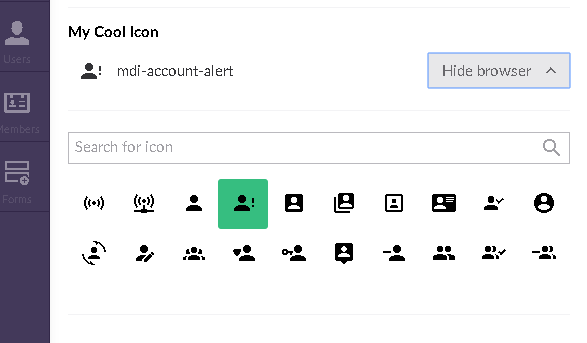
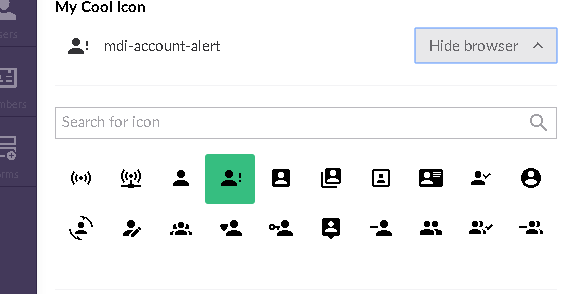
updated readme, updated git ignore, updated docs imgs

diff --git a/README.md b/README.md
@@ -1,9 +1,45 @@
 # umbraco-mdi-icons
 
-Material Design Icons data-type for Umbraco 7.11.1 and above
+Add [Material Design Icons](https://cdn.materialdesignicons.com/2.5.94/) to your Umbraco website quickly and easily with this easy to use data-type.
 
-[Mdi version 2.5.94](https://cdn.materialdesignicons.com/2.5.94/)
+## Why
 
-![Screenshot Default View](https://raw.githubusercontent.com/mooce/umbraco-mdi-icons/master/docs/img/backoffice-default.png)  
-![Screenshot Search No Match](https://raw.githubusercontent.com/mooce/umbraco-mdi-icons/master/docs/img/backoffice-nomatch.png)  
+[Material icons](https://materialdesignicons.com/) is used for many of our Umbraco based sites. After a lot of manual copy and pasting of `mdi-*` classes into view markup, we developed a custom data-type to do this tedious "icon-to-class" selection.
 
+## Features
+
+This data-type extends the Umbraco back office to give you this inline functionality:
+
+- easy to use icon browser
+- reactive text based icon search
+- top 20 icon matches shown
+- icon reset switch
+- toggle browse button
+
+<img 
+alt="Material Design Icon data type for Umbraco in the back office" src="https://raw.githubusercontent.com/mooce/umbraco-mdi-icons/master/docs/img/backoffice-default.png" width="45%"> 
+<img 
+alt="Material Design Icon data type for Umbraco has reactive search"
+src="https://raw.githubusercontent.com/mooce/umbraco-mdi-icons/master/docs/img/backoffice-nomatch.png" width="45%">
+
+## Installation
+
+Umbraco Material Design Icons can be installed via Nuget:
+```
+Install-Package Mooce.UmbracoMdiIcons
+```
+
+## Usage
+
+Once installed, navigate to the Developer section in Umbraco's back office. Create a custom data type, and select `Mooce.MdiIconPicker` from the list. Once created, your new `Mooce.MdiIconPicker` based data-type will be avalible for you to choose from when creating or updating Document Types.
+
+Link the Material Design Icons [(version 2.5.94)](https://cdn.materialdesignicons.com/2.5.94/) to your project template(s):
+```
+<link rel="stylesheet" href="//cdn.materialdesignicons.com/2.5.94/css/materialdesignicons.min.css">
+```
+
+The `Mooce.MdiIconPicker` data-type stores values as a string. Using the data-type is in your view markup is as simple as this:
+
+```
+<i class="mdi @(Model.Content.MyIcon)"></i>
+```
